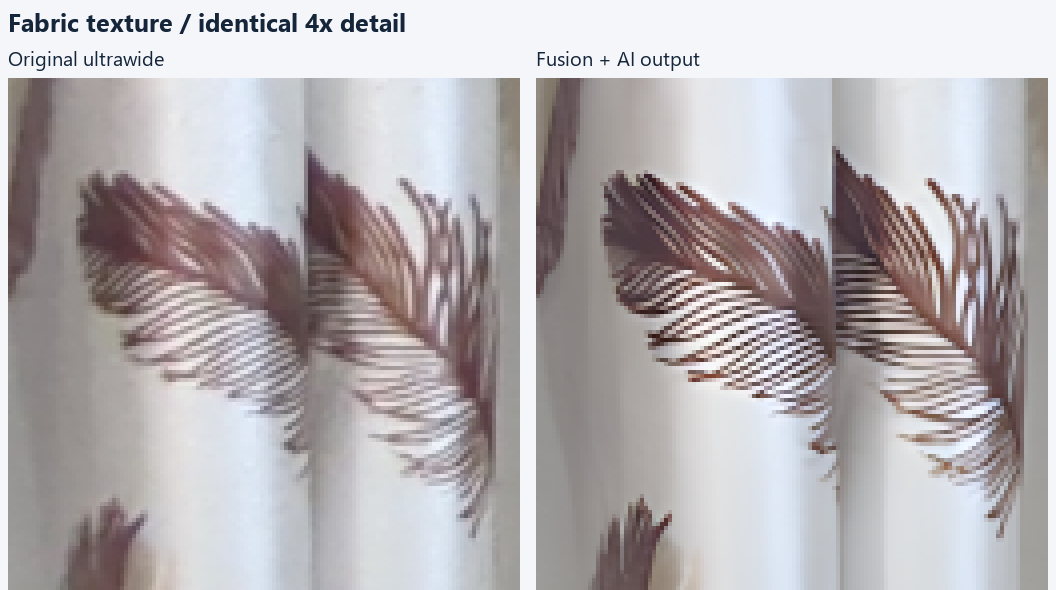
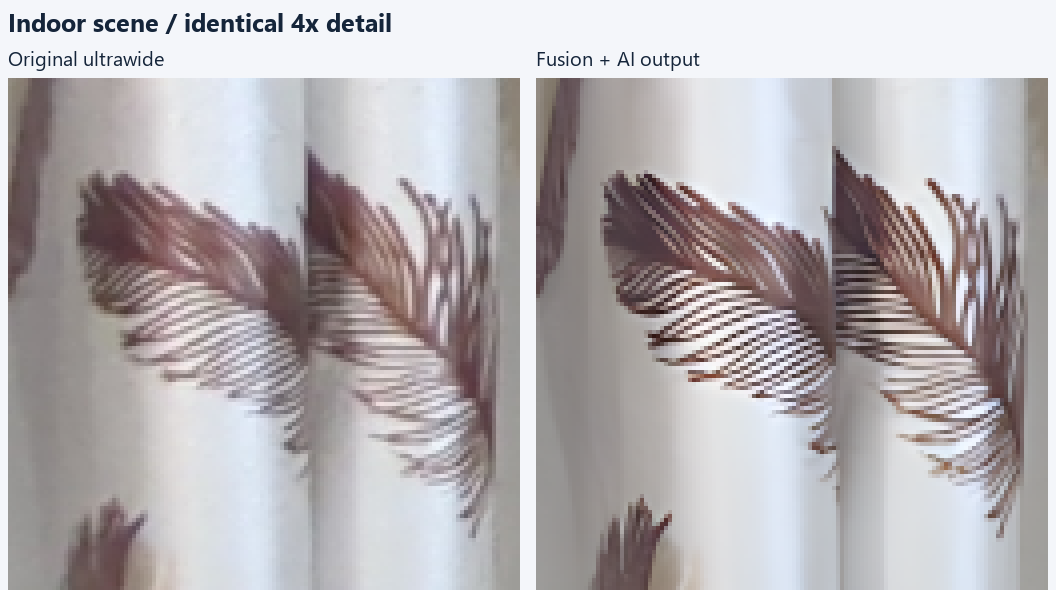
Rename fabric example to Indoor scene

Changed region(s): [[0.0, 0.0, 0.4062, 0.061]]

diff --git a/tools/compose_readme_comparisons.py b/tools/compose_readme_comparisons.py
@@ -7,7 +7,7 @@ from PIL import Image, ImageDraw, ImageFont
 
 ROOT=Path(__file__).resolve().parents[1]
 CASES=[
- ('1792920192129-c94fec-3fa7a525','fabric-detail','Fabric texture','Indoor scene; leaf-pattern fabric and shelving.',(300,828,428,956)),
+ ('1792920192129-c94fec-3fa7a525','fabric-detail','Indoor scene','Indoor scene; leaf-pattern fabric and shelving.',(300,828,428,956)),
  ('1792952814379-196fe7-64446bf1','packaging-detail','Printed packaging','Indoor scene; small printed detail on packaging.',(408,636,536,764)),
  ('1792953137936-636bb6-6683b6ea','screen-detail','Screen detail','Photographed display; screen moire and resampling can affect appearance.',(624,396,752,524)),
  ('1792953727412-5706f0-6912899c','low-light-dog','Dog figure / very low light','Very low light, as reported during capture; no lux measurement.',(336,660,464,788)),

diff --git a/README.md b/README.md
@@ -16,18 +16,18 @@ Crops were deliberately selected to show visible changes within trusted regions.
 
 | Scene | Capture date (IST) | Trusted reference area | Changed pixels: fusion | Changed pixels: final | Processing |
 | --- | --- | ---: | ---: | ---: | ---: |
-| Fabric texture | 25 Oct 2026 | 30.37% | 21.80% | 22.14% | 241.0 s |
+| Indoor scene | 25 Oct 2026 | 30.37% | 21.80% | 22.14% | 241.0 s |
 | Printed packaging | 25 Oct 2026 | 4.58% | 2.82% | 2.89% | 23.1 s |
 | Screen detail | 26 Oct 2026 | 15.38% | 12.27% | 12.73% | 51.8 s |
 | Dog figure / very low light | 26 Oct 2026 | 2.51% | 1.47% | 1.53% | 13.5 s |
 
 **What the percentages mean:** trusted reference area comes from the app's saved fusion diagnostics. Changed pixels differ from `prepared-ultrawide.png` by at least 2/255 in any RGB channel across the full image. Fusion values come from the app diagnostics; final values are calculated from the archived final pixels. These are processing-activity percentages, **not percentage improvements in image quality**. No aligned ground truth was supplied, so no PSNR, SSIM, or quality-gain percentage is claimed.
 
-### Fabric texture
+### Indoor scene
 
 The leaf-pattern fabric is the clearest texture example in this set. Inspect the same strands and edges in both crops; the output's crisper appearance alone does not verify detail accuracy.
 
-![Fabric texture: full split comparison, matched 4x detail crops and green confidence overlays](docs/images/fabric-detail.png)
+![Indoor scene: full split comparison, matched 4x detail crops and green confidence overlays](docs/images/fabric-detail.png)
 
 ### Printed packaging
 
